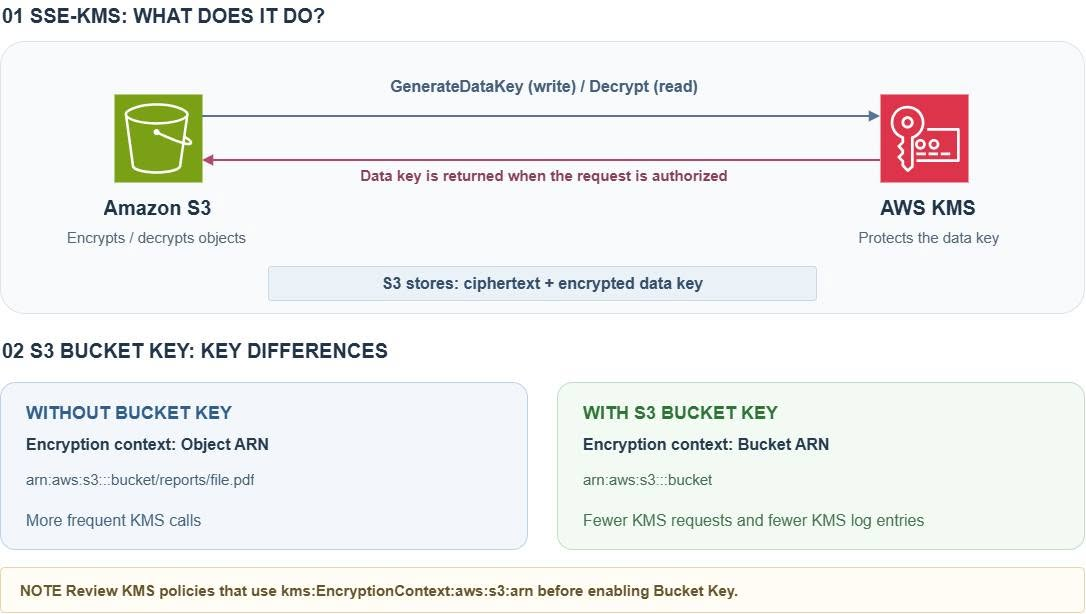
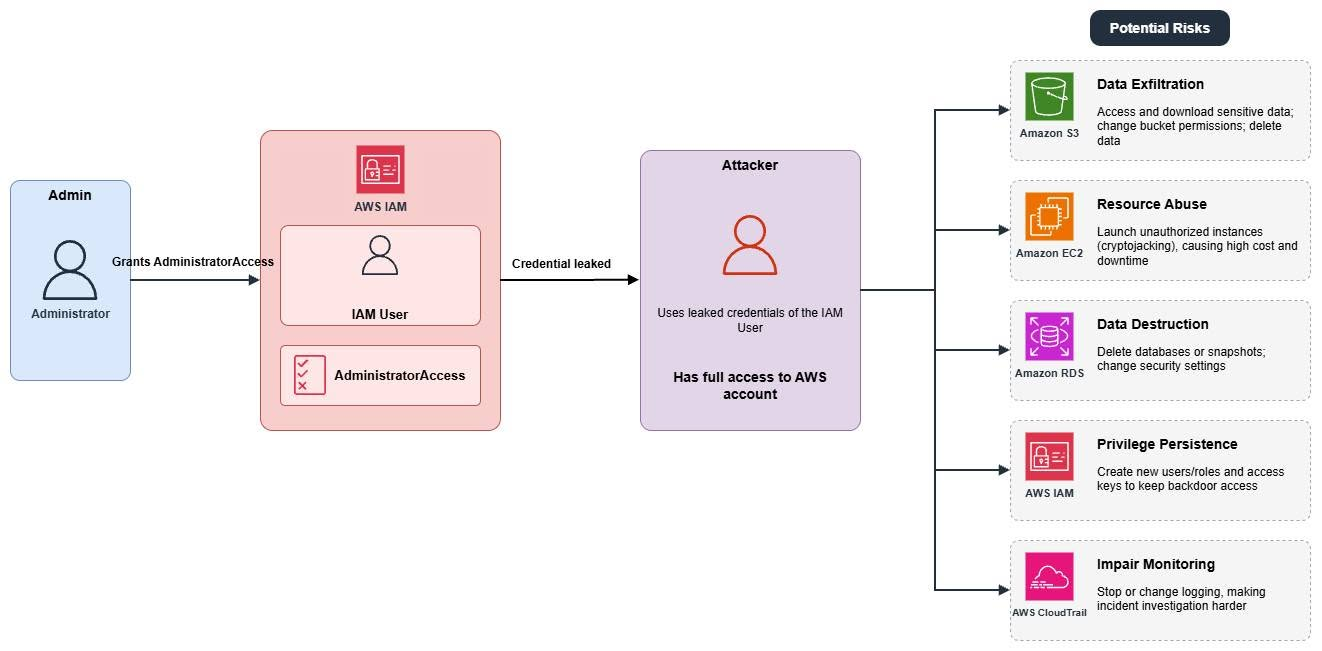
Update picture

diff --git a/content/_index.vi.md b/content/_index.vi.md
@@ -25,6 +25,10 @@ chapter: false
 
 &emsp; **Thời gian thực tập:** Từ ngày 14/09/2026 đến ngày 14/12/2026
 
+<<<<<<< HEAD
+=======
+![Your profile picture](/images/avatar.jpg)
+>>>>>>> 5c776f1 (Update picture)
 
 
 

diff --git a/content/_index.md b/content/_index.md
@@ -28,6 +28,11 @@ chapter: false
 
 &emsp; **Internship Duration:** From 14/09/2026 to 14/12/2026
 
+<<<<<<< HEAD
+=======
+![Your profile picture](/images/avatar.jpg)
+
+>>>>>>> 5c776f1 (Update picture)
 
 ### Report Content
 
